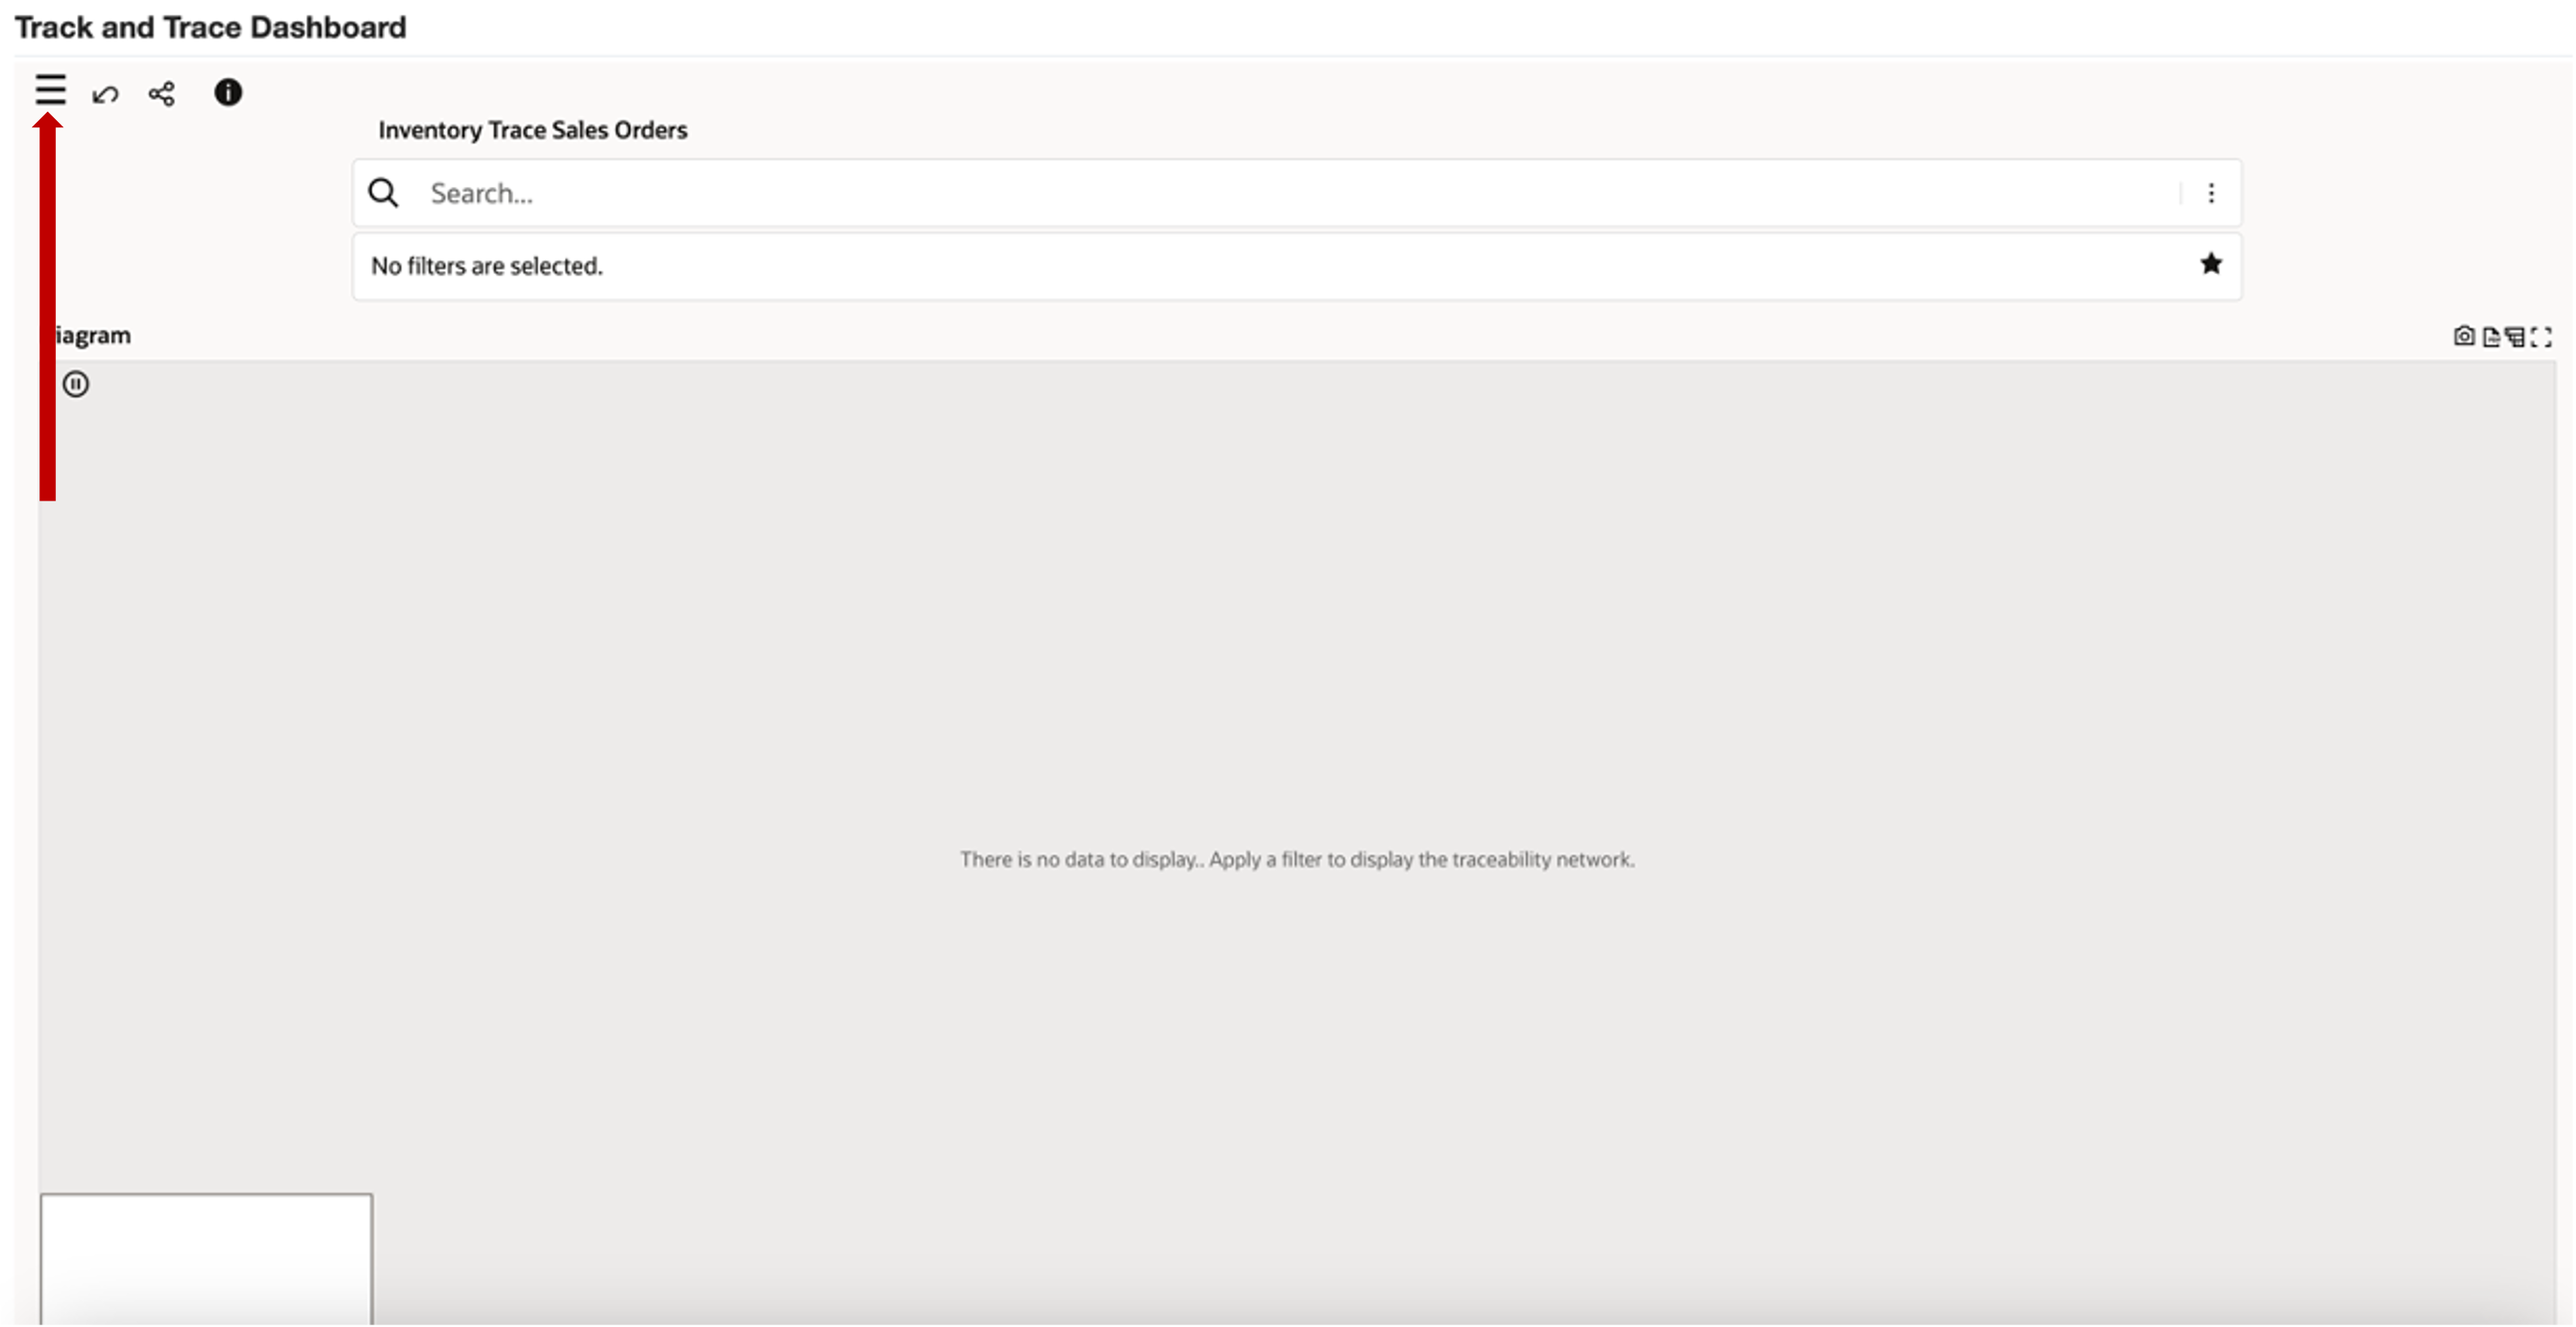
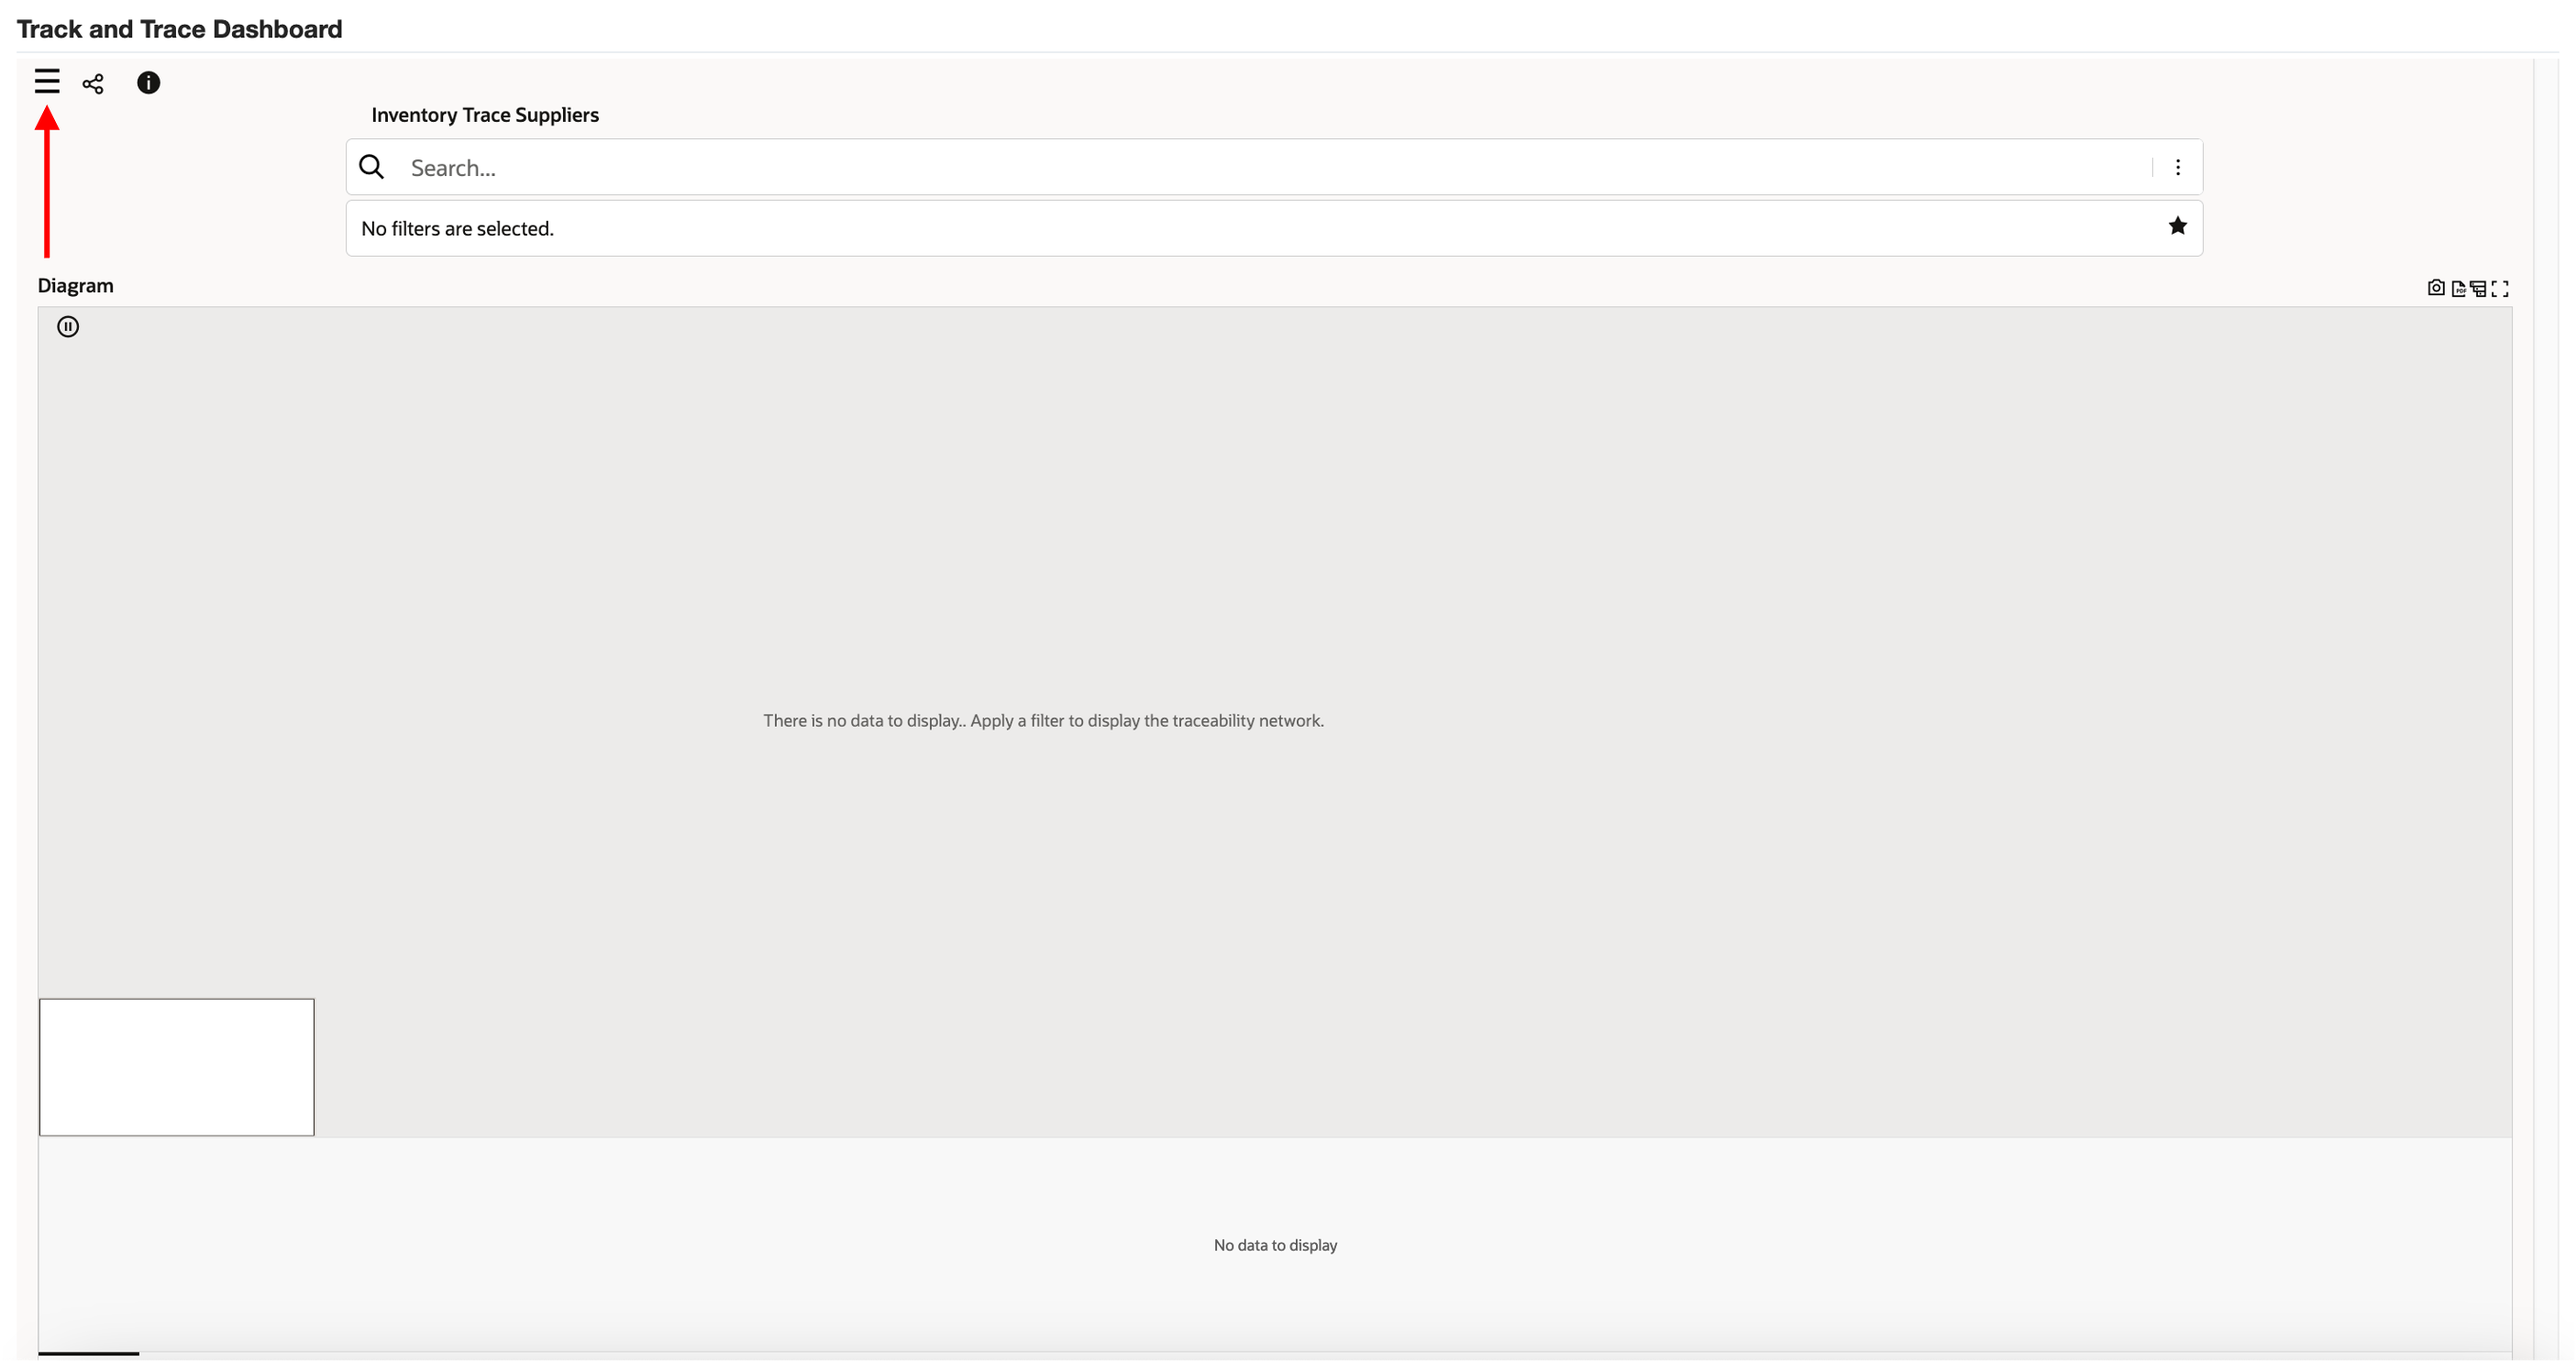
Changes in inventory use case documentation

diff --git a/ecc-developer-hol/query/useeccdashboards/useeccdashboards.md b/ecc-developer-hol/query/useeccdashboards/useeccdashboards.md
@@ -211,43 +211,47 @@ Password: welcome1
 2. Navigate to Logistics Manager -> Command Center and then to "Track and Trace" dashboard
     ![Move Orders](../images/log1.png "Move Orders")
 
-3. In the Track and Trace dashboard, click on the side navigation panel to open Available refinements, by default "Inventory Trace Supplier" is the selected dataset. Change the data set to "Inventory Trace Sales Orders", by clicking on the three vertical dots beside the name of the data set. Within this data set, under "Ship-To Location" attribute search for "Atlanta" as we are aware of issues originating from Atlanta [In Available refinements within a multi select list, you can search and select multiple values, and then click on filter to apply them in one go or you can choose to click on any one value and refine for that value immediately. Here we will do the latter].
+3. In the Track and Trace dashboard, click on the side navigation panel to open Available refinements, by default "Inventory Trace Supplier" is the selected dataset. 
     ![Track and trace](../images/ju2.png "Track and trace")
 
+4. Change the data set to "Inventory Trace Sales Orders", by clicking on the three vertical dots beside the name of the data set. 
+    ![Track and trace](../images/invchangedataset.png "Track and trace")
+
+5. Within this data set, under "Ship-To Location" attribute search for "Atlanta" as we are aware of issues originating from Atlanta [In Available refinements within a multi select list, you can search and select multiple values, and then click on filter to apply them in one go or you can choose to click on any one value and refine for that value immediately. Here we will do the latter].
     ![Track and trace](../images/ju1.png "Track and trace")
 
-4. The diagram of orders from Atlanta will be displayed. Within this diagram we want to focus on three known problematic sales orders "66007", "66008" and "66014". Hold control key and select all three sales orders, now select "Highlight Path" from the pop up to highlight their paths [You can see at the bottom of the diagram there is a small but concise overview of the diagram, in this example we only have one diagram but the feature allows for multiple diagrams to be shown in a paginated manner if the refinement were to result in completely distinct diagrams].
+6. The diagram of orders from Atlanta will be displayed. Within this diagram we want to focus on three known problematic sales orders "66007", "66008" and "66014". Hold control key and select all three sales orders, now select "Highlight Path" from the pop up to highlight their paths [You can see at the bottom of the diagram there is a small but concise overview of the diagram, in this example we only have one diagram but the feature allows for multiple diagrams to be shown in a paginated manner if the refinement were to result in completely distinct diagrams].
 
     ![Track and trace](../images/ju3.png "Track and trace")
     ![Track and trace](../images/ju4.png "Track and trace")
 
-5.  Expand Staging Location to see individual tasks, by clicking on the arrow icon highlighted in the below image [This feature consolidates all related items in one node]
+7.  Expand Staging Location to see individual tasks, by clicking on the arrow icon highlighted in the below image [This feature consolidates all related items in one node]
 
     ![Track and trace](../images/ju5.png "Track and trace")
 
-6. Investigate relevant tasks, hold control key and select the relevant picks and then click on "Compare"
+8. Investigate relevant tasks, hold control key and select the relevant picks and then click on "Compare"
 ["Compare" feature allows a user to compare multiple nodes in one go].
     ![Track and trace](../images/ju6.png "Track and trace")
-6. We find they have different lot numbers. Let's investigate Pack transactions now
+9. We find they have different lot numbers. Let's investigate Pack transactions now
     ![Track and trace](../images/ju7.png "Track and trace")
 
-8. Select and compare the relevant pack transactions by holding control key, selecting all the three relevant pack transactions and then clicking on "Compare"
+10. Select and compare the relevant pack transactions by holding control key, selecting all the three relevant pack transactions and then clicking on "Compare"
 
     ![Track and trace](../images/ju9.png "Track and trace")
 
 
-9. User "New Hire" packed all 3 ‘problem’ different items
+11. User "New Hire" packed all 3 ‘problem’ different items
     ![Track and trace](../images/ju10.png "Track and trace")
 
-10. Use "Find Similar" to find other pack transactions by New Hire ["Find similar" feature allows you to investigate further using a particular attribute, in this case all sales orders handled by user "New Hire" will be refined].
+12. Use "Find Similar" to find other pack transactions by New Hire ["Find similar" feature allows you to investigate further using a particular attribute, in this case all sales orders handled by user "New Hire" will be refined].
     ![Track and trace](../images/ju11.png "Track and trace")
-11. Page 1 has the 3 problem orders we already know about and a new, unrelated order is found on page 2 
+13. Page 1 has the 3 problem orders we already know about and a new, unrelated order is found on page 2 
     ![Track and trace](../images/ju12.png "Track and trace")
-12. Click on the page 2 diagram to view it
+14. Click on the page 2 diagram to view it
     ![Track and trace](../images/ju13.png "Track and trace")
-9.  You can find their status and prevent shipping by changing their inventory status from the material workbench. To do that right click on the "Pick Freezer B " node as below:
+15.  You can find their status and prevent shipping by changing their inventory status from the material workbench. To do that right click on the "Pick Freezer B " node as below:
     ![Track and trace](../images/ju14.png "Track and trace")
-10. Click on the action "Update on hand quantity" to navigate to the material workbench [Actions in diagram are configured at node level to enable a user to perform any action at any node level, this action can navigate a user to a different dashboard or open a new dashboard inline within the existing view. In this case the former has been configured].
+16. Click on the action "Update on hand quantity" to navigate to the material workbench [Actions in diagram are configured at node level to enable a user to perform any action at any node level, this action can navigate a user to a different dashboard or open a new dashboard inline within the existing view. In this case the former has been configured].
     ![Track and trace](../images/t78.png "Track and trace")
 
 
